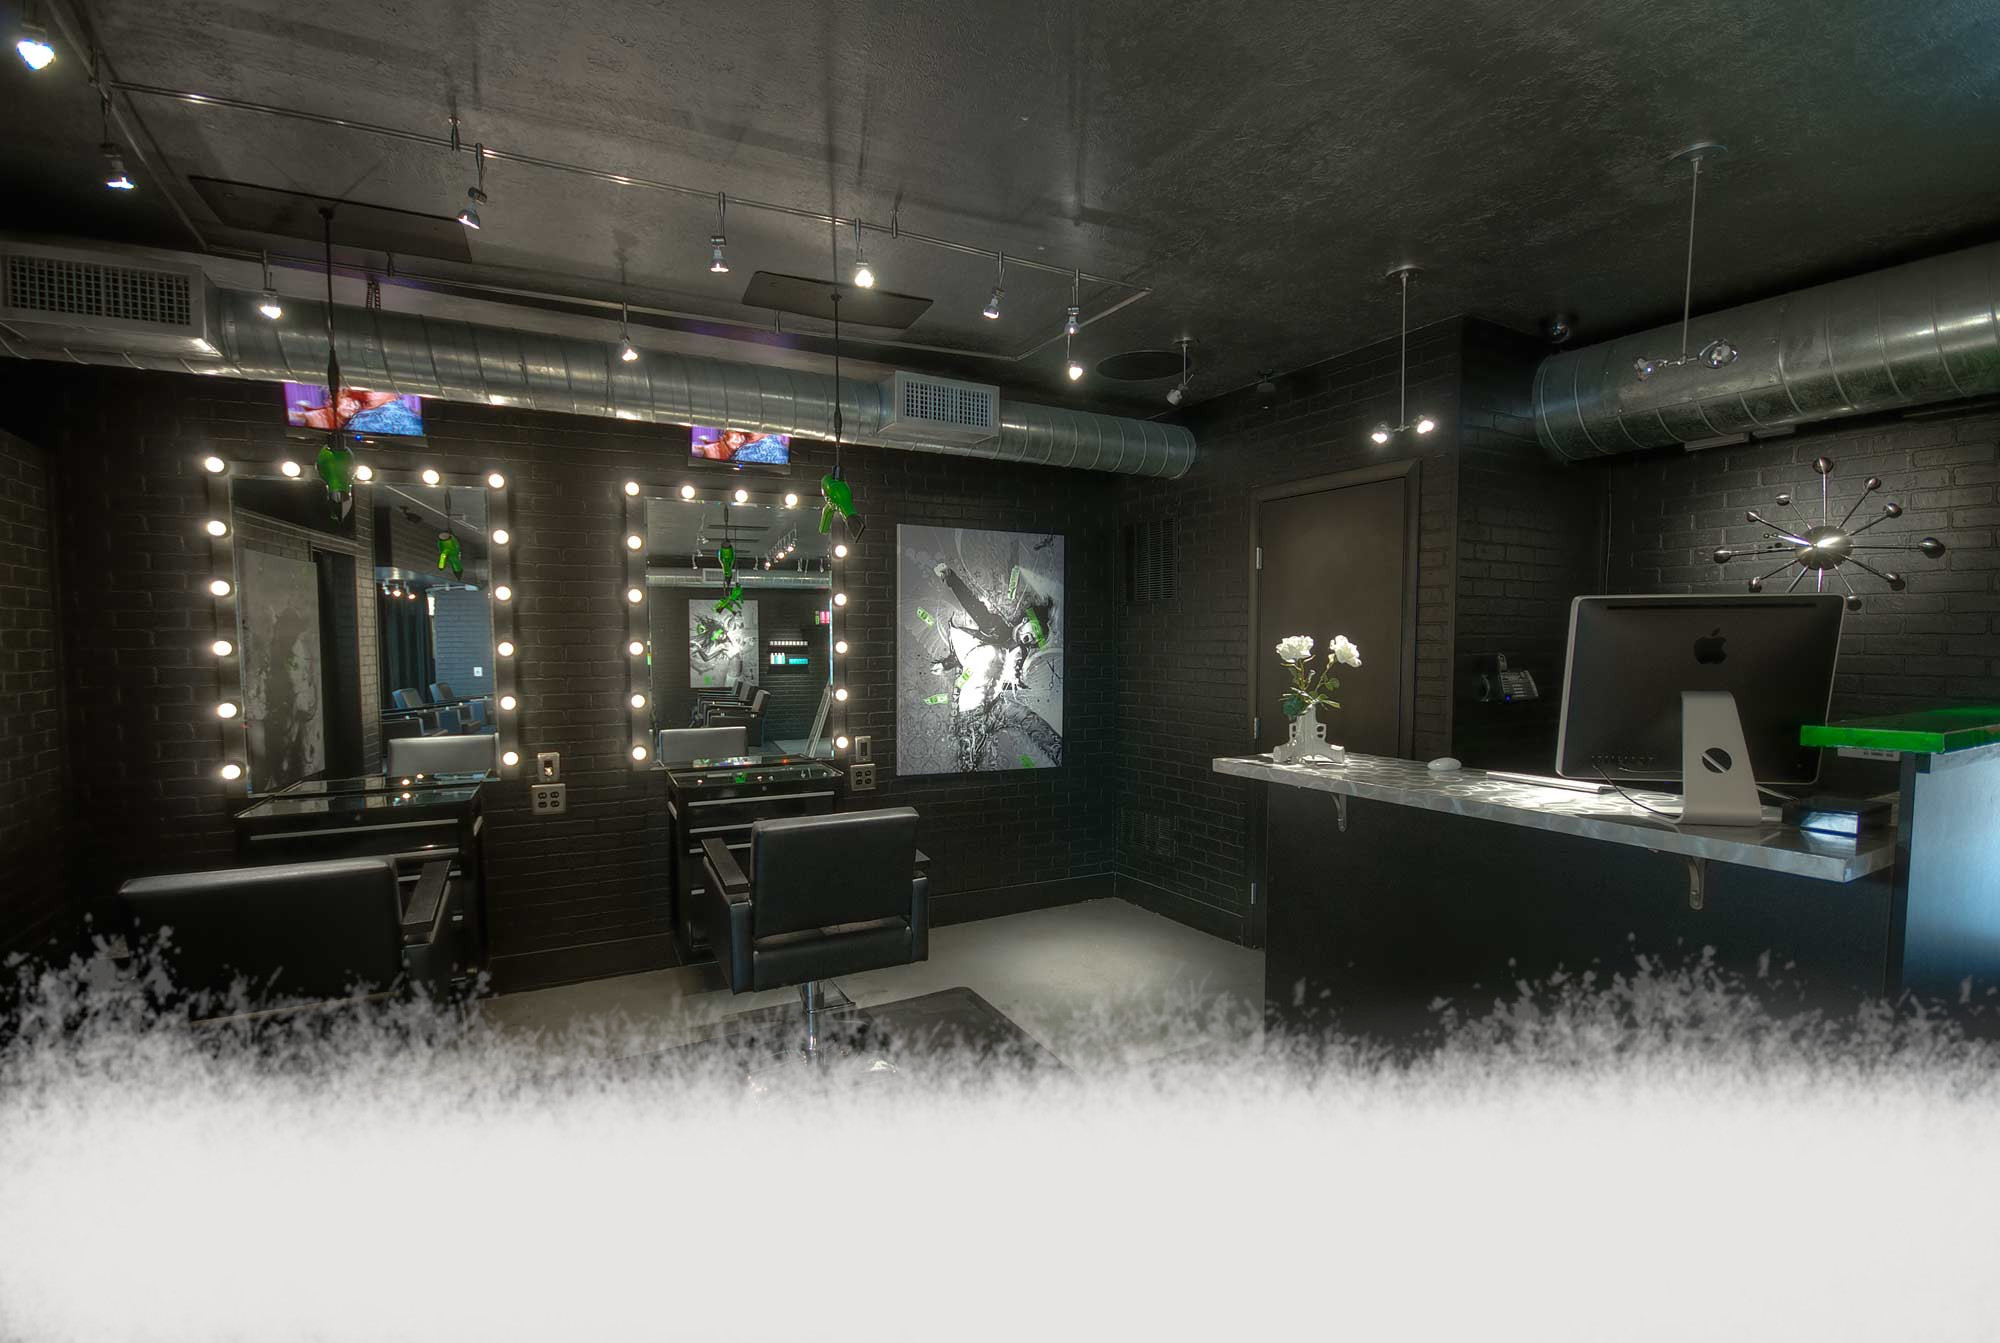
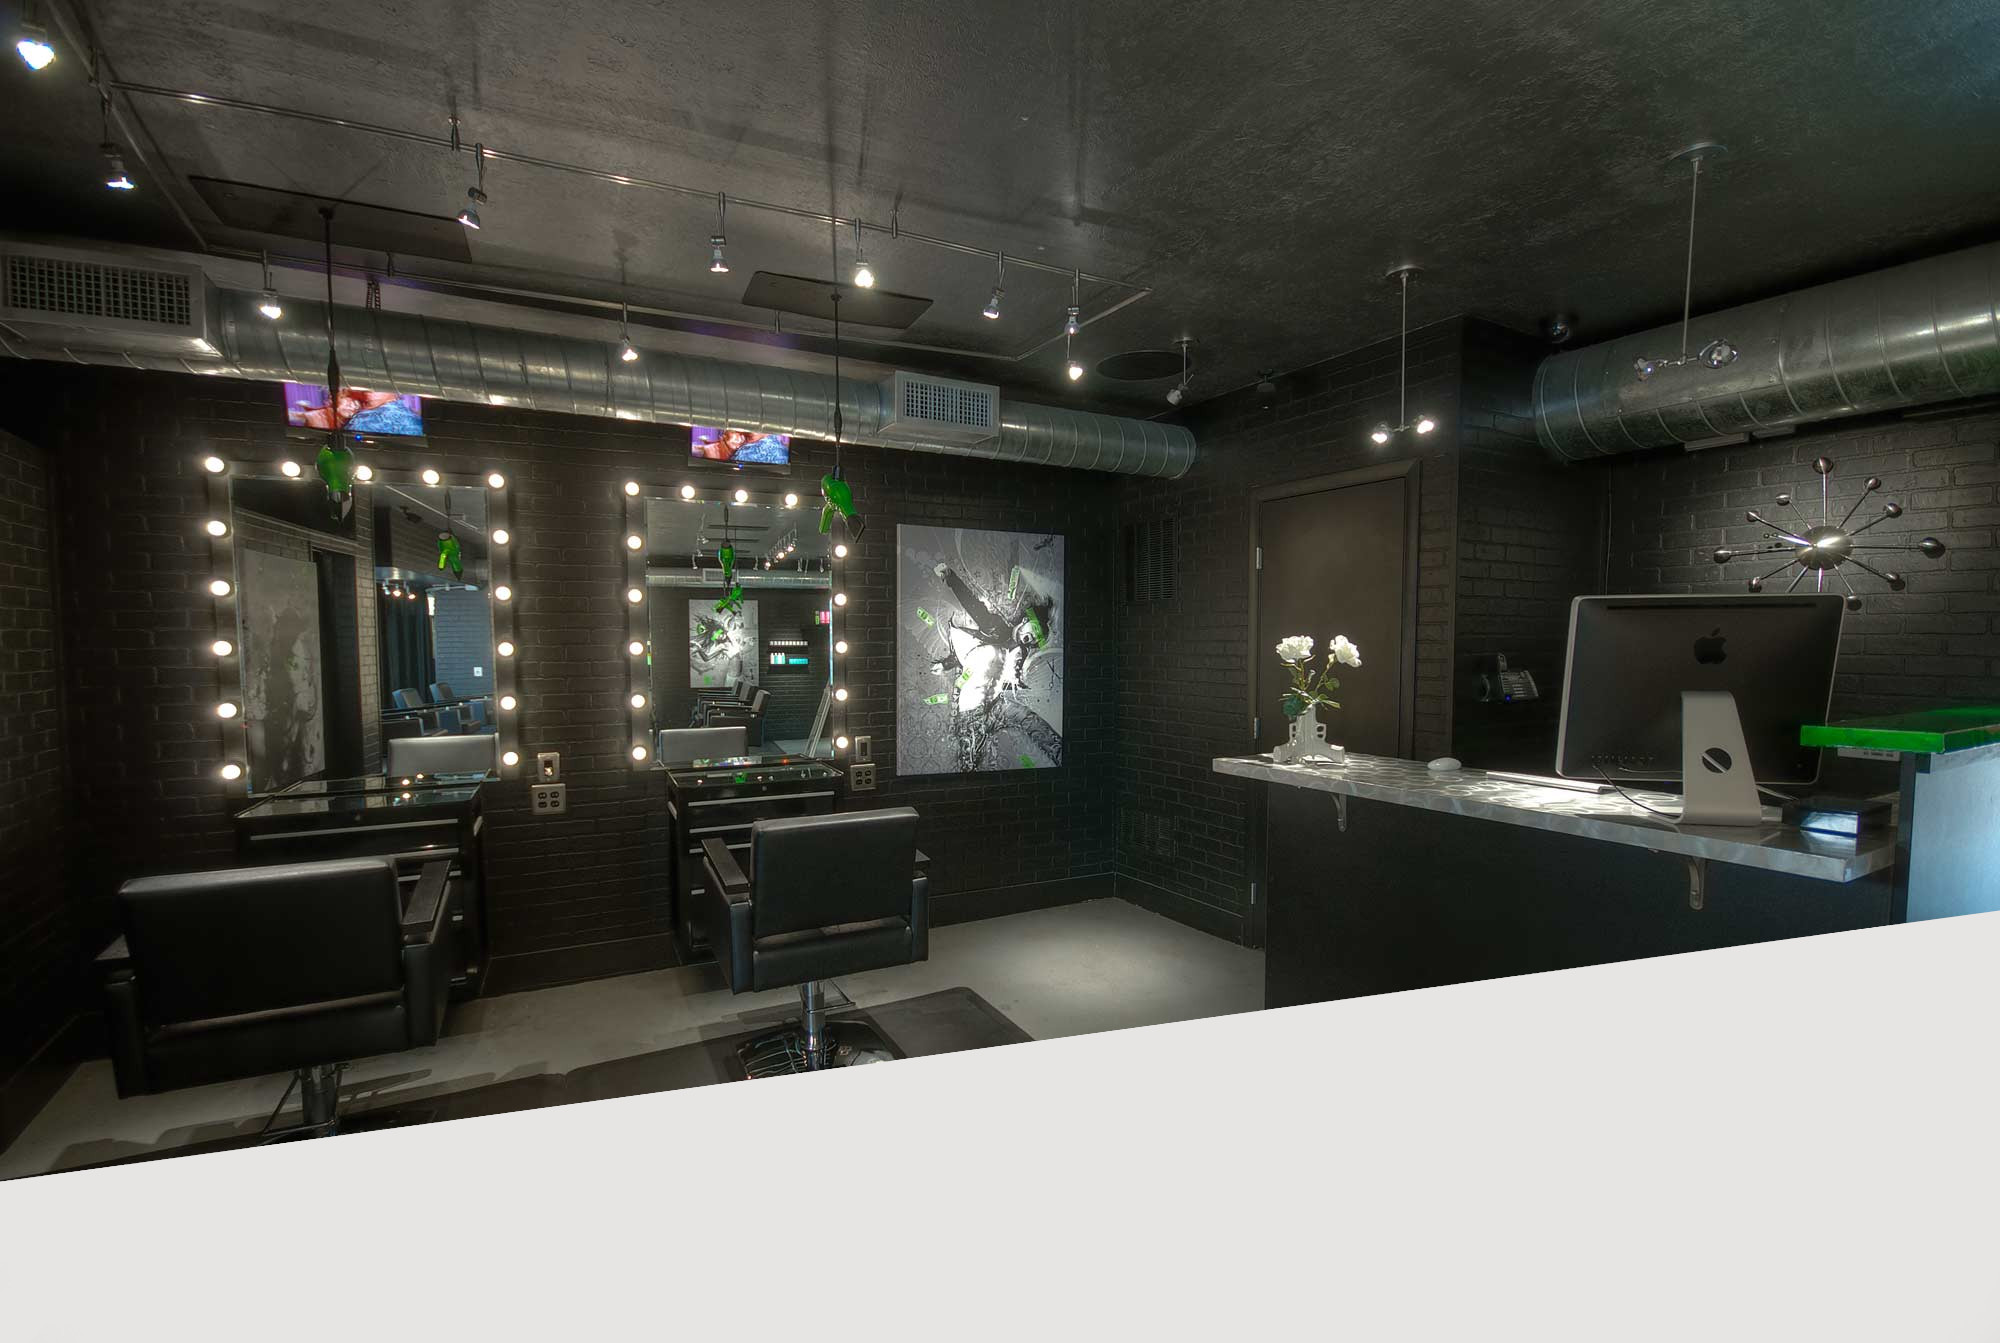
Messing with backgrounds

Changed region(s): [[0.0, 0.6716, 1.0, 0.8853], [0.0, 0.9769, 0.031, 1.0]]

diff --git a/src/components/pages/Home.js b/src/components/pages/Home.js
@@ -52,7 +52,7 @@ export default function Home({ toggleBooking, navRef }) {
                 whileInView={{ opacity: 1, x: 0 }}
                 transition={{ ease: "easeOut", duration: 1, delay: 2 }}
                 onClick={() => { toggleBooking(true); }}
-                className='fixed right-1/4 bottom-12 tracking-widest z-10 w-1/2 md:w-1/4 py-2 font-extrabold rounded-full text-black text-center text-sm bg-lime-500 bg-opacity-50 shadow-lg shadow-black hover:shadow-none'>
+                className='fixed right-1/4 bottom-12 tracking-widest z-10 w-1/2 md:w-1/4 py-4 font-extrabold rounded-full text-stone-950 border border-stone-950'>
                 BOOK NOW
             </motion.button>
             <motion.p className='absolute bottom-0 w-full text-center text-stone-300 z-10'>&#9660;</motion.p>
